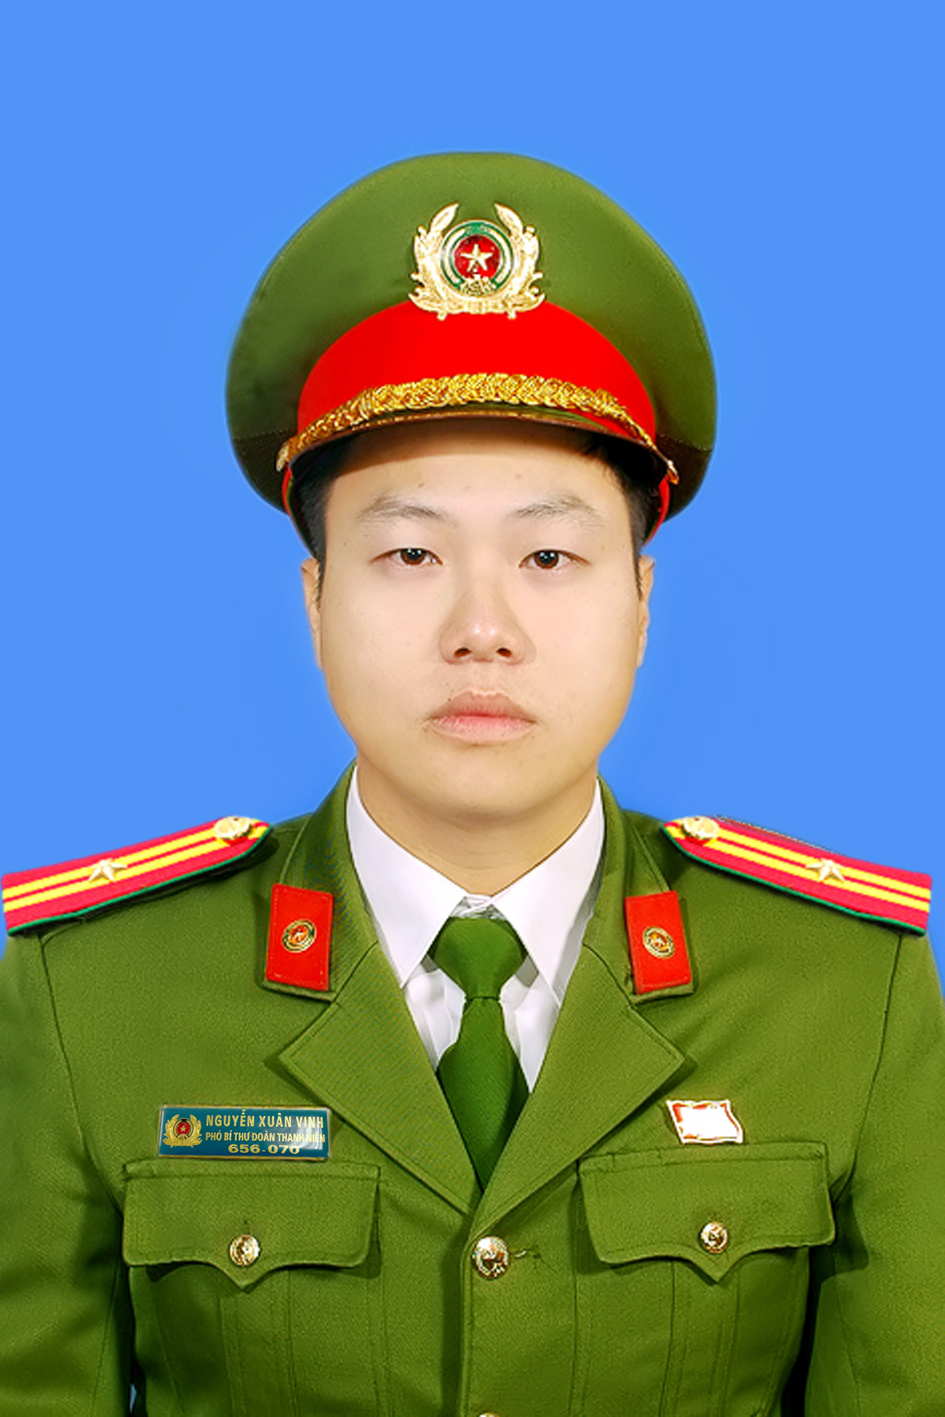
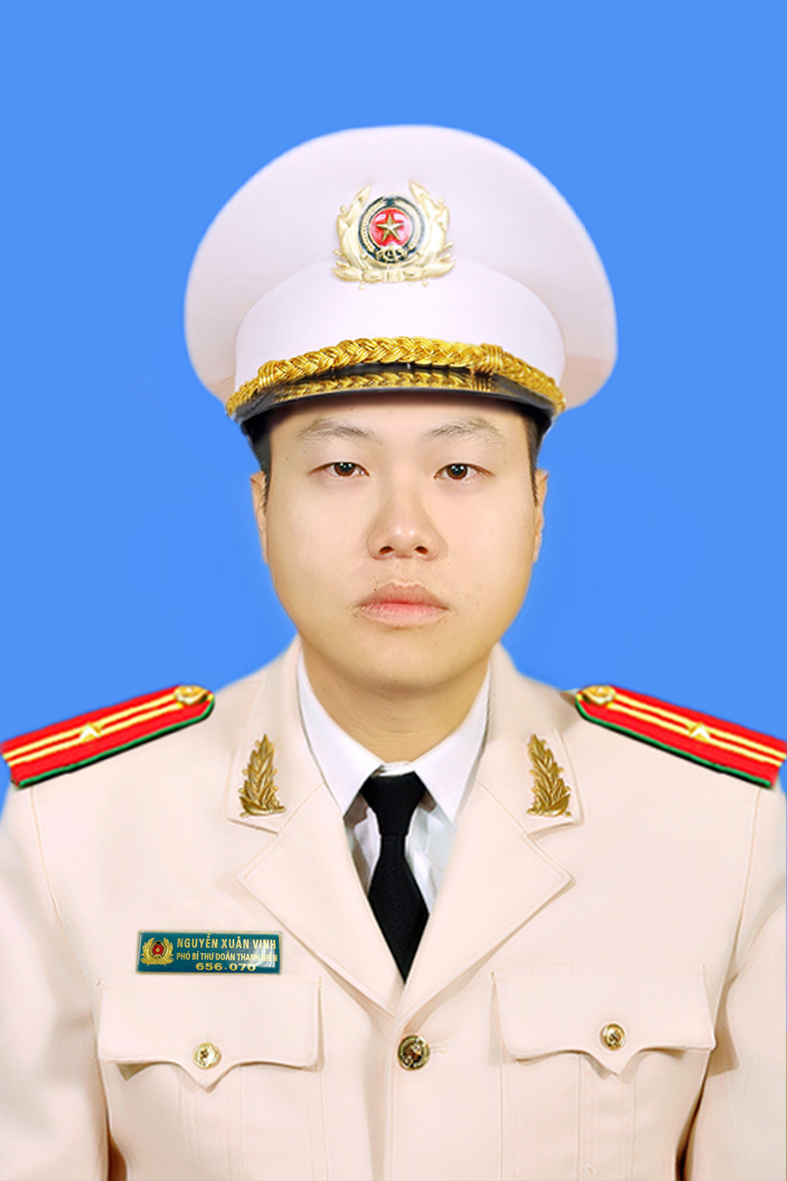
Remove CLB Piano and update BTV leadership photos from T02 BTV folder

diff --git a/database/seeders/SampleDataSeeder.php b/database/seeders/SampleDataSeeder.php
@@ -230,18 +230,6 @@ class SampleDataSeeder extends Seeder
                 ],
             ],
             [
-                'name' => 'CLB Piano & Nhạc Cụ Học Viện CSND',
-                'logo' => '/images/clubs/guitar/guitar-6.jpg',
-                'images' => [
-                    '/images/clubs/guitar/guitar-6.jpg',
-                    '/images/clubs/guitar/guitar-3.jpg',
-                    '/images/clubs/guitar/guitar-4.jpg',
-                ],
-                'founded_date' => '2018-11-20',
-                'category_id' => $catMusic->id,
-                'description' => 'Không gian nghệ thuật dành cho các đoàn viên yêu thích đàn Piano, Organ, nhạc cụ thính phòng và hòa tấu; thường xuyên biểu diễn phục vụ các chương trình chính trị, hội nghị và giao lưu văn hóa nghệ thuật của Học viện.',
-            ],
-            [
                 'name' => 'CLB Dân Vũ Học Viện CSND',
                 'logo' => '/images/clubs/dan-vu/dan-vu-1.jpg',
                 'images' => [
